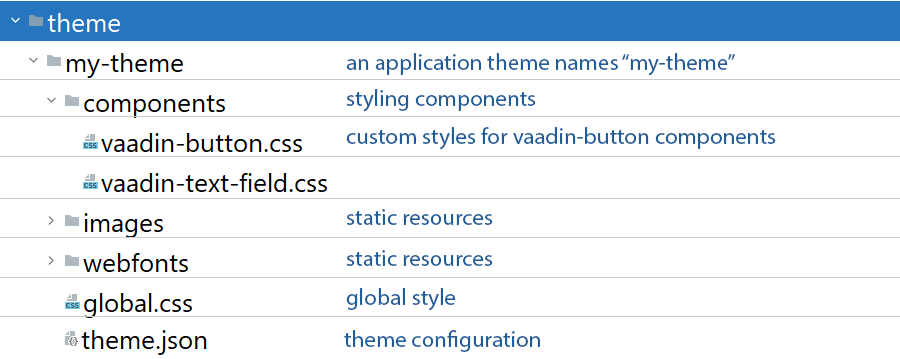
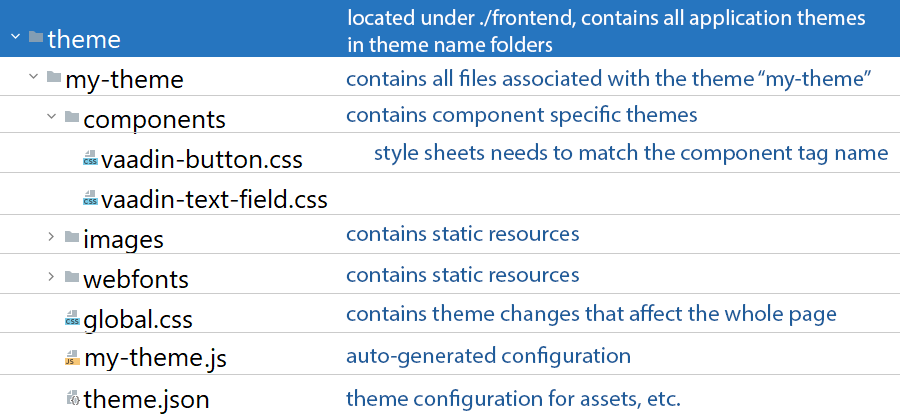
Mention @Theme must be used with AppShellConfigurator

diff --git a/articles/themes/src/main/java/com/vaadin/flow/tutorial/theme/UsingComponentThemes.java b/articles/themes/src/main/java/com/vaadin/flow/tutorial/theme/UsingComponentThemes.java
@@ -40,6 +40,12 @@ public class UsingComponentThemes {
     public class DefaultLumoApplication extends Div {
     }
 
+    // tag::apptheme[]
+    @Theme("my-theme")
+    public class Application extends SpringBootServletInitializer implements AppShellConfigurator {
+    }
+    // end::apptheme[]
+
     // tag::lumo[]
     @Route(value = "")
     @Theme(themeClass = Lumo.class)
@@ -80,13 +86,13 @@ public class UsingComponentThemes {
     // end::notheme[]
 
     @Route(value = "")
-    @Theme(value = "my-theme", variant = "large")
+    @Theme(themeClass = Lumo.class, variant = "large")
     public class LargeThemedApplication extends Div {
     }
 
     @Route(value = "")
     // tag::lumo-dark[]
-    @Theme(value = "my-theme", variant = Lumo.DARK)
+    @Theme(themeClass = Lumo.class, variant = Lumo.DARK)
     // end::lumo-dark[]
     public class DarkApplication extends Div {
     }
